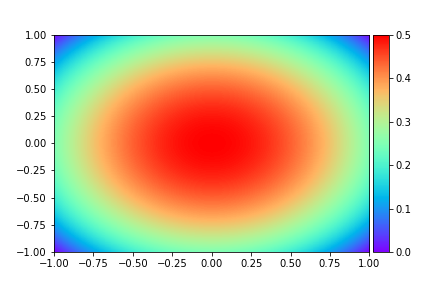
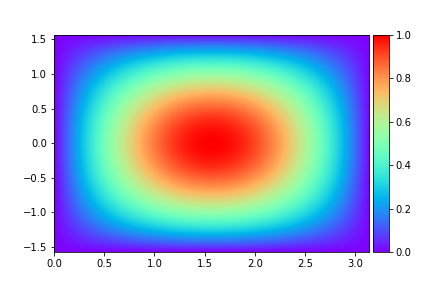
.

diff --git a/utils/genExact.py b/utils/genExact.py
@@ -1,5 +1,45 @@
 import torch
+from numpy import np
 from torch import Tensor
+
+
+# def mesh2d(num: int) -> Tensor:
+#     '''
+#     Generate meshgrid in square
+
+#     input:  
+#     num: number of interval in one axis
+
+#     output: grid location in Tensor form with dim = (num*num, 2)
+#     '''
+
+#     x = torch.linspace(-1, 1, num)
+#     y = torch.linspace(-1, 1, num)
+#     X, Y = torch.meshgrid(x, y)
+#     Z = torch.cat((Y.flatten()[:, None], Y.T.flatten()[:, None]), dim=1)
+
+#     return Z
+
+# def poi2d(grid: Tensor) -> Tensor:
+#     '''
+#     Generate exact solution according to the following 2D poisson equation in the meshgrid
+#     \laplacia u = -1,    u \in \Omega
+#     u = 0,              u \in \partial \Omega (-1, 1) \times (-1, 1)
+
+#     exact:  u = -1/4(x^2 + y^2 - 2)
+
+#     input:  
+#     grid: location of the grid tensor
+
+#     output: exact solution in Tensor form with dim = (num*num)
+#     '''
+
+#     return -(torch.sum(grid**2, dim = 1) - 2)/4
+
+
+
+
+
 
 
 def mesh2d(num: int) -> Tensor:
@@ -12,10 +52,10 @@ def mesh2d(num: int) -> Tensor:
     output: grid location in Tensor form with dim = (num*num, 2)
     '''
 
-    x = torch.linspace(-1, 1, num)
-    y = torch.linspace(-1, 1, num)
+    x = torch.linspace(0., pi, num)
+    y = torch.linspace(-pi/2, pi/2, num)
     X, Y = torch.meshgrid(x, y)
-    Z = torch.cat((Y.flatten()[:, None], Y.T.flatten()[:, None]), dim=1)
+    Z = torch.cat((X.flatten()[:, None], Y.flatten()[:, None]), dim=1)
 
     return Z
 
@@ -33,7 +73,32 @@ def poi2d(grid: Tensor) -> Tensor:
     output: exact solution in Tensor form with dim = (num*num)
     '''
 
-    return -(torch.sum(grid**2, dim = 1) - 2)/4
+    return torch.sin(grid[:,0])*torch.cos(grid[:,1])
+
+
+
+
+
+
+
+
+
+
+
+
+
+
+
+
+
+
+
+
+
+
+
+
+
 
 
 

diff --git a/main.py b/main.py
@@ -88,7 +88,7 @@ def train(**kwargs):
         datI_loader = DataLoader(datI, 100, shuffle=True) # make sure that the dataloders are the same len for datI and datB
         datB_loader = DataLoader(datB, 10, shuffle=True)
 
-        for i, data in enumerate(zip(datI_loader, datB_loader)):
+        for data in zip(datI_loader, datB_loader):
 
             # train model 
             optimizer.zero_grad()
@@ -102,10 +102,10 @@ def train(**kwargs):
 
             loss.backward()
             optimizer.step()
-
-            w0[:] = [i.data for i in model.parameters()]
             
             loss_meter.add(loss.item())  # meters update
+        
+        w0[:] = [i.data for i in model.parameters()]
         
         # prediction error
         with torch.no_grad():

diff --git a/utils/lossfunc.py b/utils/lossfunc.py
@@ -16,8 +16,9 @@ def criterion(model, dat_i, dat_b):
     output_i = model(dat_i)
     output_b = model(dat_b)
     ux = torch.autograd.grad(outputs = output_g, inputs = g, grad_outputs = torch.ones_like(output_g), retain_graph=True, create_graph=True)[0]
+    f = 2*torch.sin(dat_i[:,0])*torch.cos(dat_i[:,1])
     
-    loss_i =  torch.mean(0.5 * torch.sum(torch.pow(ux, 2),dim=1)- output_i)
+    loss_i =  torch.mean(0.5 * torch.sum(torch.pow(ux, 2),dim=1)- f*output_i)
     loss_b = torch.mean(torch.pow(output_b,2))
     
     return loss_i + 500*loss_b
